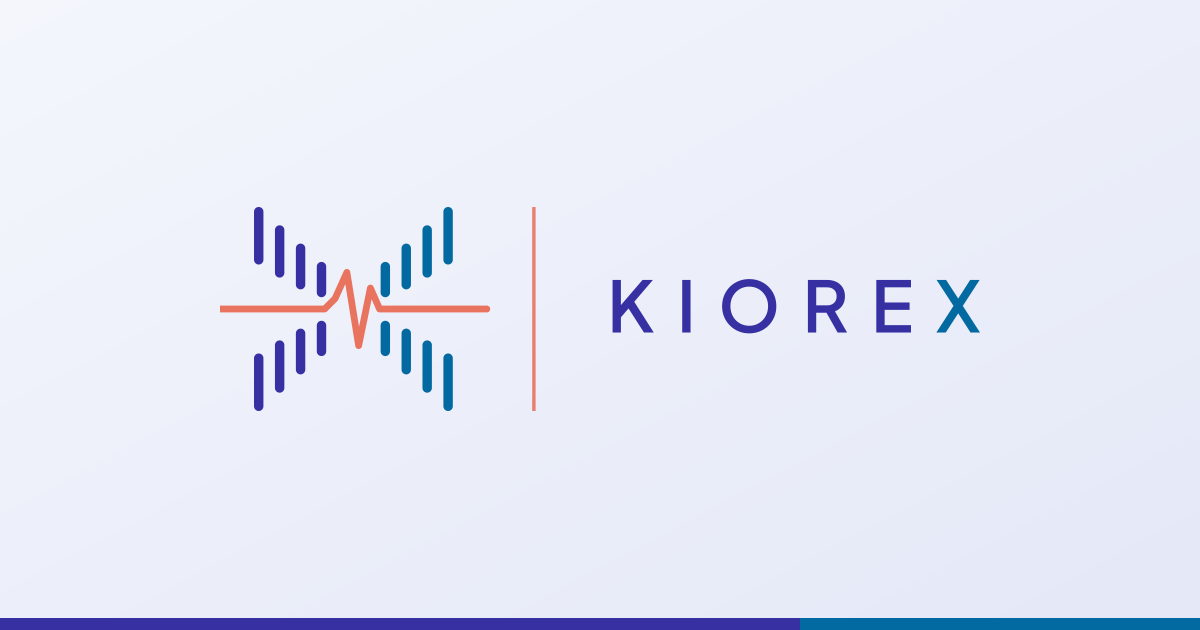
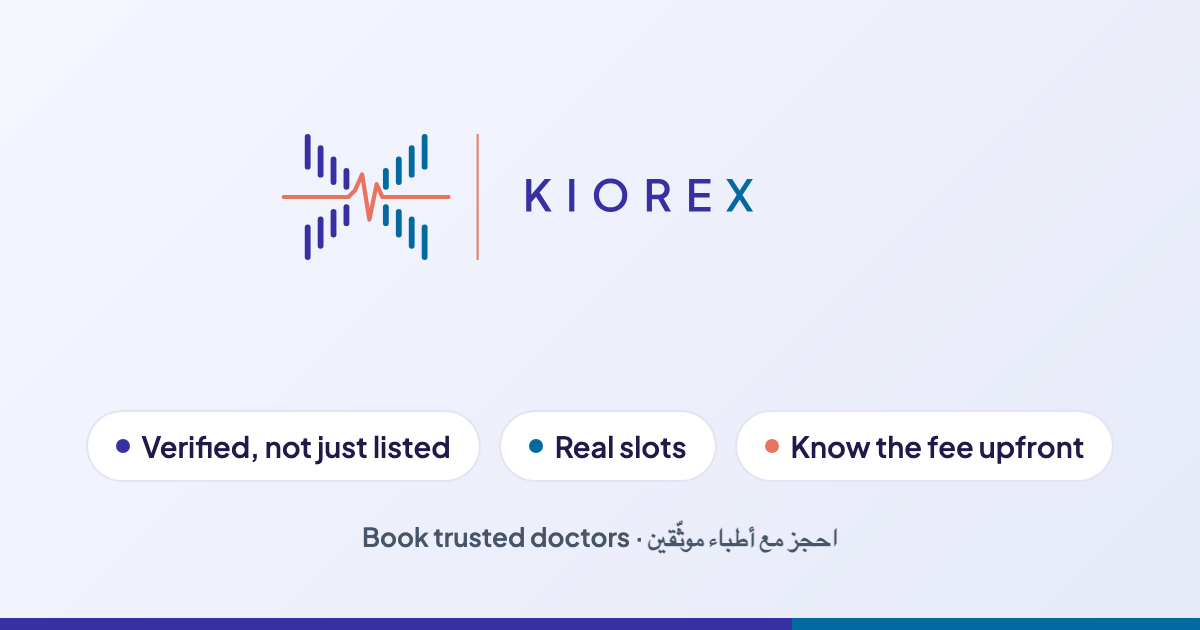
feat(web): link previews with absolute og:image/og:url (VITE_SITE_URL from the registry), new share image with the three claims, test

diff --git a/apps/web/index.html b/apps/web/index.html
@@ -15,10 +15,18 @@
     <link rel="manifest" href="/manifest.webmanifest" />
     <meta property="og:type" content="website" />
     <meta property="og:site_name" content="Kiorex" />
-    <meta property="og:image" content="/og-image.png" />
+    <meta property="og:title" content="Kiorex — كيوريكس" />
+    <meta property="og:description" content="Find verified doctors, see real slots and know the fee before you book. اعثر على طبيب موثّق، شاهد المواعيد المتاحة وتعرّف على السعر قبل الحجز." />
+    <meta property="og:url" content="__KX_SITE_URL__/" />
+    <meta property="og:image" content="__KX_SITE_URL__/og-image.png" />
+    <meta property="og:image:type" content="image/png" />
     <meta property="og:image:width" content="1200" />
     <meta property="og:image:height" content="630" />
+    <meta property="og:image:alt" content="Kiorex: verified doctors, real slots, the fee upfront" />
     <meta name="twitter:card" content="summary_large_image" />
+    <meta name="twitter:title" content="Kiorex — كيوريكس" />
+    <meta name="twitter:description" content="Find verified doctors, see real slots and know the fee before you book." />
+    <meta name="twitter:image" content="__KX_SITE_URL__/og-image.png" />
     <link rel="preload" href="/fonts/plus-jakarta-sans-600.woff2" as="font" type="font/woff2" crossorigin />
     <script>
       try {

diff --git a/apps/web/src/test/share-tags.test.ts b/apps/web/src/test/share-tags.test.ts
@@ -1,0 +1,19 @@
+import { readFileSync } from "node:fs";
+import path from "node:path";
+import { describe, expect, it } from "vitest";
+
+const html = readFileSync(path.resolve(__dirname, "../../index.html"), "utf8");
+
+describe("link preview tags (WhatsApp, Telegram, X)", () => {
+  it("has the full Open Graph and Twitter set with ABSOLUTE image and url placeholders", () => {
+    for (const tag of ["og:title", "og:description", "og:url", "og:image", "og:image:alt"]) expect(html).toContain(`property="${tag}"`);
+    expect(html).toContain('property="og:image" content="__KX_SITE_URL__/og-image.png"');
+    expect(html).toContain('property="og:url" content="__KX_SITE_URL__/"');
+    expect(html).toContain('name="twitter:image" content="__KX_SITE_URL__/og-image.png"');
+    expect(html).not.toMatch(/property="og:image" content="\//);
+  });
+  it("ships the icons the chat apps read (PNG, not only SVG)", () => {
+    expect(html).toContain('rel="apple-touch-icon" href="/apple-touch-icon.png"');
+    expect(html).toContain('href="/favicon-32.png"');
+  });
+});

diff --git a/apps/web/vite.config.ts b/apps/web/vite.config.ts
@@ -2,8 +2,12 @@ import { defineConfig } from "vitest/config";
 import react from "@vitejs/plugin-react-swc";
 import path from "node:path";
 
+/** Link previews (WhatsApp, Telegram, X) need ABSOLUTE og:image and og:url: __KX_SITE_URL__ in index.html becomes VITE_SITE_URL (generated from the URL registry per environment), else the production host. */
+const shareOrigin = (): string => (process.env.VITE_SITE_URL?.trim() || "https://kiorex.com").replace(/\/+$/, "");
+const shareTags = { name: "kx-share-origin", transformIndexHtml: (html: string) => html.replaceAll("__KX_SITE_URL__", shareOrigin()) };
+
 export default defineConfig({
-  plugins: [react()],
+  plugins: [react(), shareTags],
   resolve: { alias: { "@": path.resolve(__dirname, "src") } },
   // maplibre-gl 6 spawns its ESM worker via import.meta.url: pre-bundling moves the module and breaks that URL ("Worker failed to load", blank map in dev)
   optimizeDeps: { exclude: ["maplibre-gl"] },
